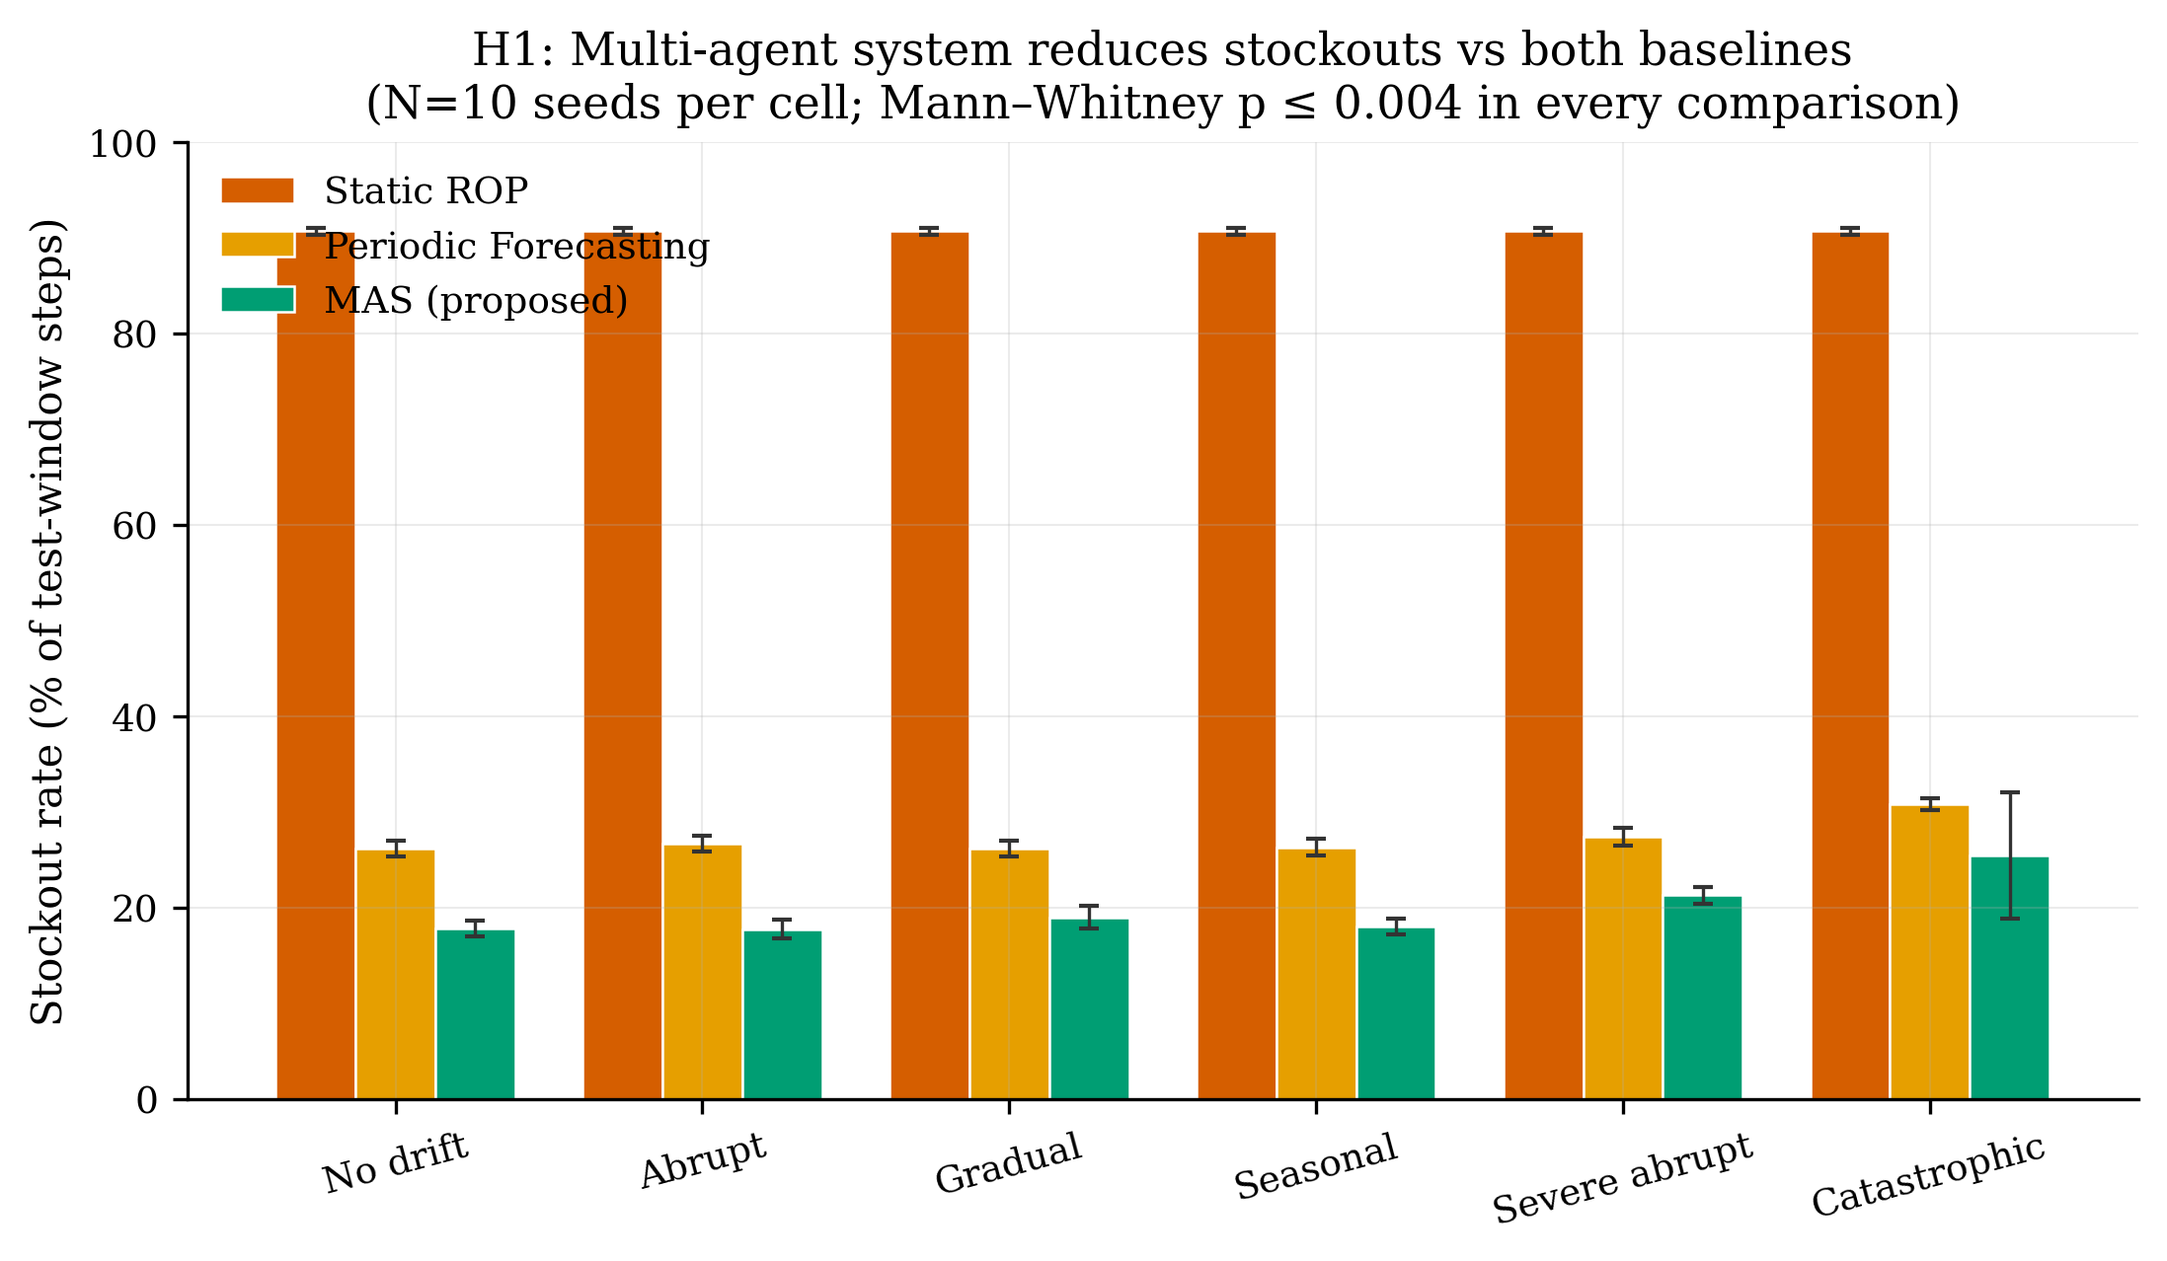
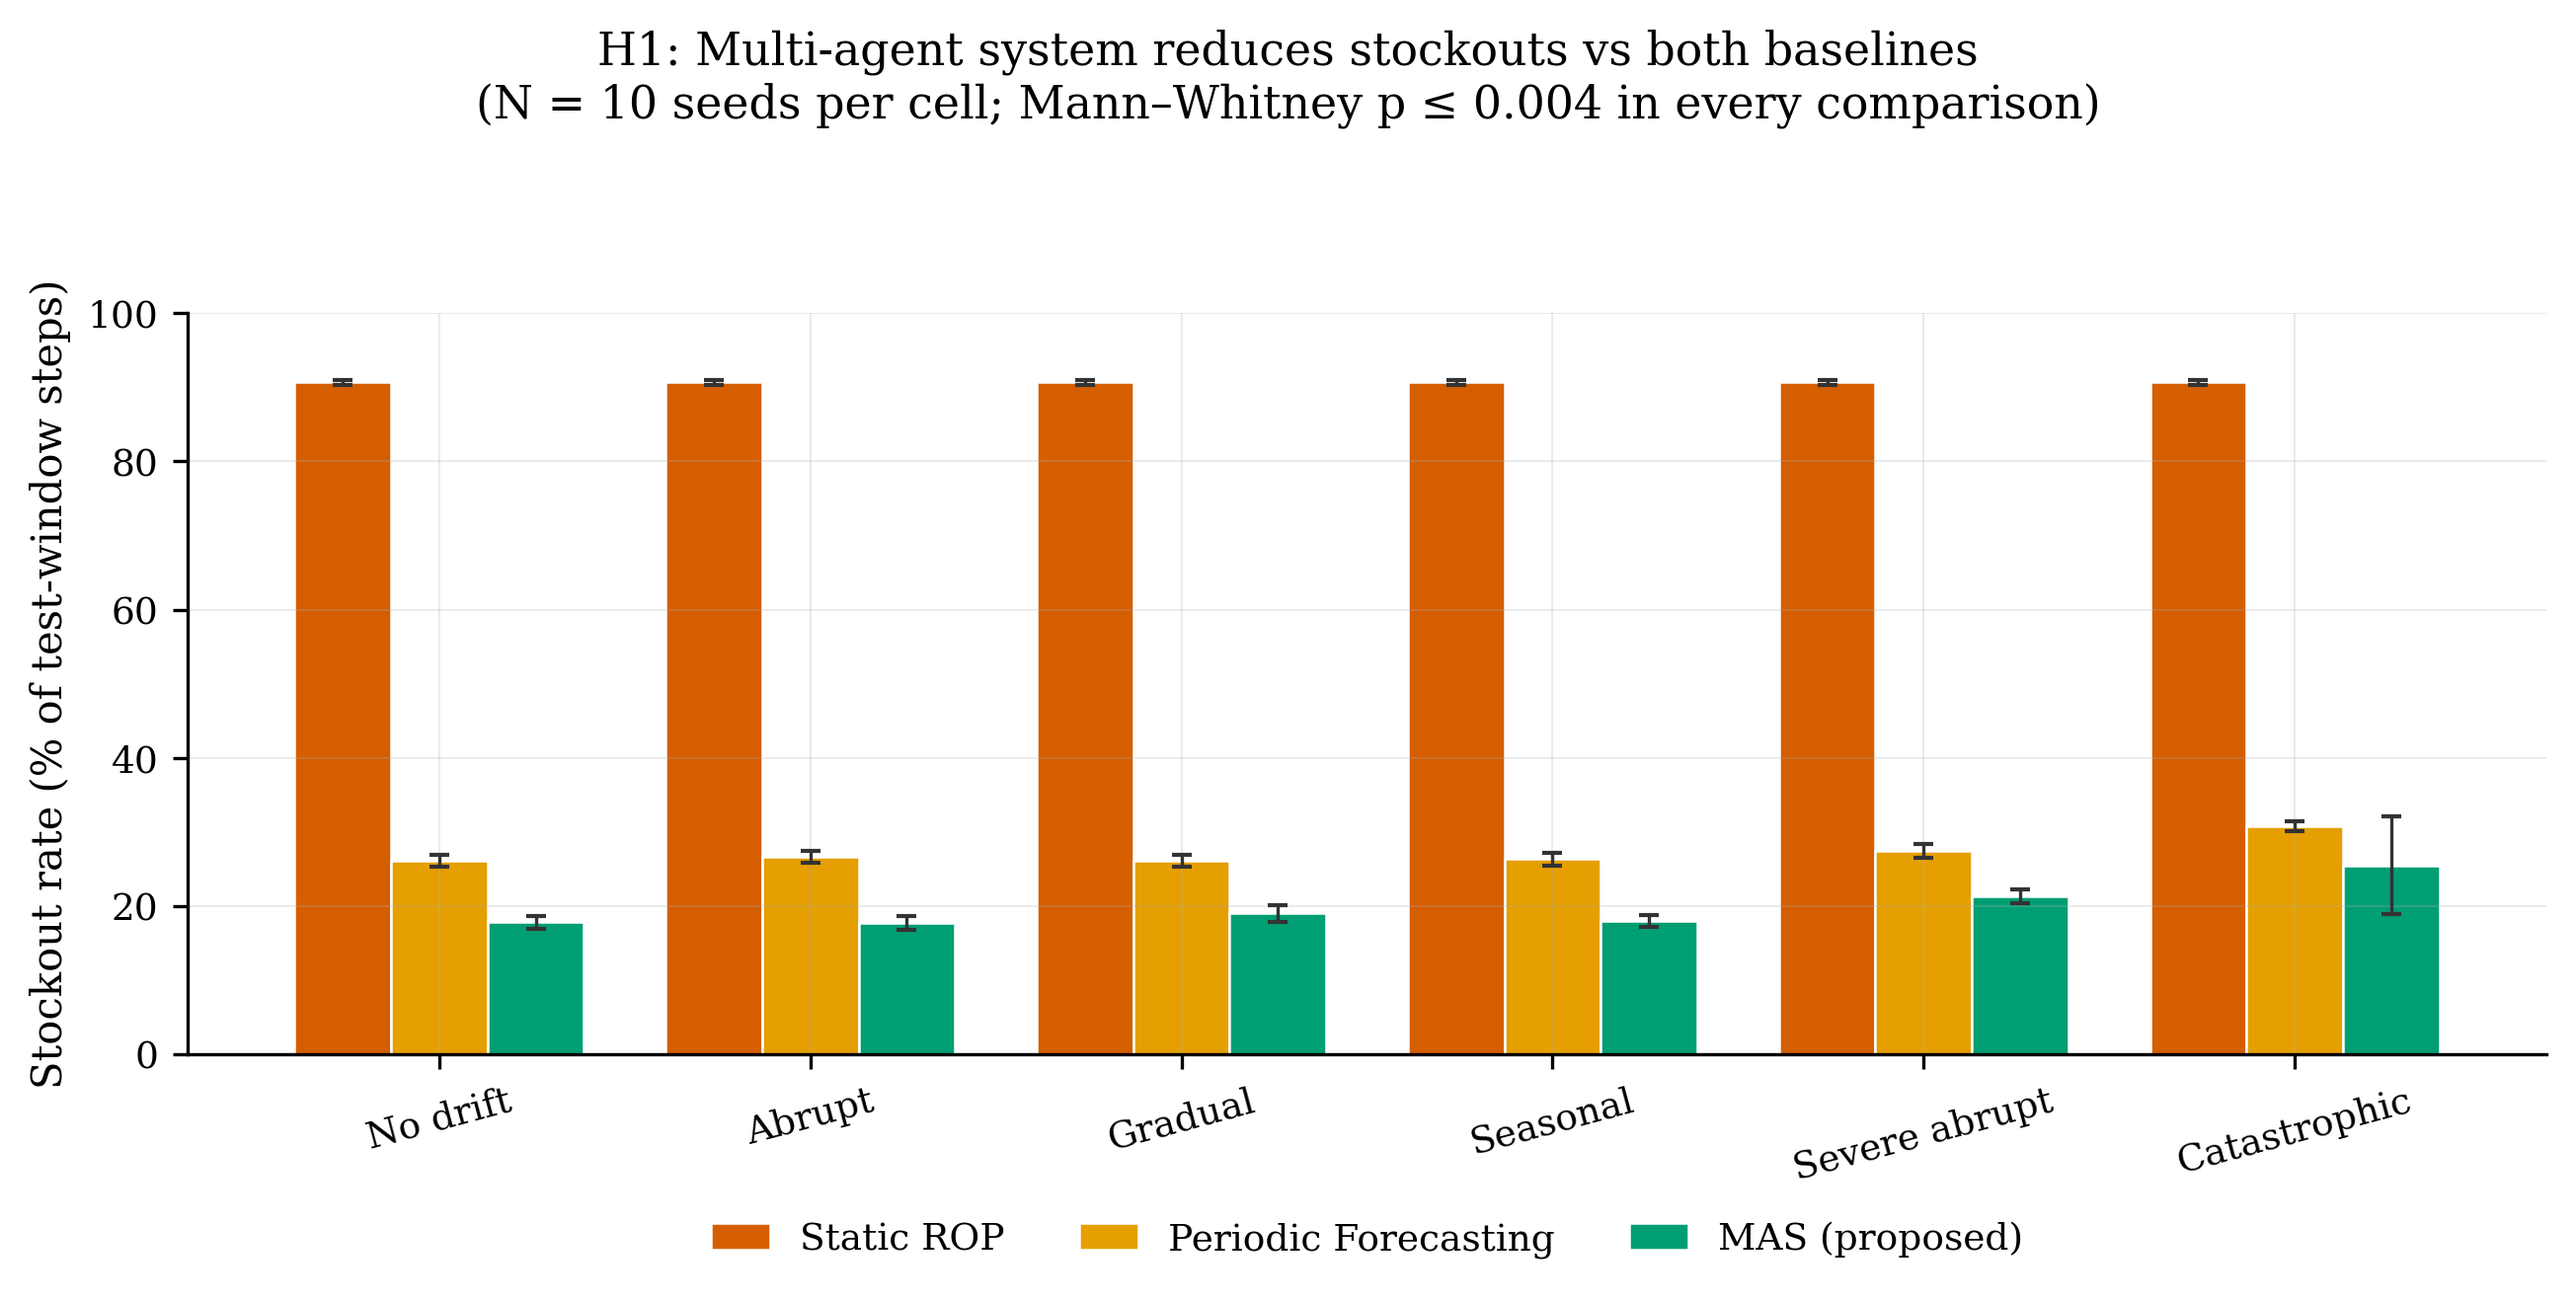
docs(figure): fix legend/bar overlap in H1 stockout figure
The "Static ROP / Periodic Forecasting / MAS (proposed)" legend was at
loc="upper left" inside the plot, but every Static ROP bar reaches ~91%
on the y-axis -- the legend ran across all six tall bars and was
unreadable for Static ROP.

Layout fix:
- Move the legend to a horizontal 3-column row BELOW the x-axis tick
  labels via bbox_to_anchor=(0.5, -0.18) + ncol=3. Out of the plot
  area entirely; no future scenario can make a bar tall enough to
  overlap it.
- Move the title from ax.set_title to fig.suptitle so it sits above
  the plot proper, not above the tallest bars where it competes for
  vertical space.
- Bump figure height from 4.2 to 4.8 inches to accommodate the new
  bottom-legend strip without compressing the bars.
- tight_layout(rect=...) reserves the bottom 4% for the legend and the
  top 7% for the title.

No data change.

diff --git a/scripts/make_figures.py b/scripts/make_figures.py
@@ -97,13 +97,20 @@ def _save(fig, name: str) -> None:
 # Figure 1: H1 stockout-rate comparison across scenarios
 # ============================================================================
 def fig_h1_stockout() -> None:
+    """H1 stockout-rate comparison bar chart.
+
+    Layout notes: Static ROP bars reach ~91% in every scenario, so an
+    in-plot legend at any upper corner collides with bar tops. We place
+    the legend BELOW the x-axis as a horizontal row and use suptitle for
+    the heading so the title doesn't compete with the bars either.
+    """
     print("Figure 1: H1 stockout-rate comparison")
     n_scen = len(SCENARIO_ORDER)
-    n_pol = len(POLICY_ORDER)
     width = 0.26
     x = np.arange(n_scen)
 
-    fig, ax = plt.subplots(figsize=(8.5, 4.2))
+    # Slightly taller figure to leave room for the below-plot legend.
+    fig, ax = plt.subplots(figsize=(8.8, 4.8))
     for i, pol in enumerate(POLICY_ORDER):
         means, stds = [], []
         for scen in SCENARIO_ORDER:
@@ -113,20 +120,37 @@ def fig_h1_stockout() -> None:
                 means.append(mt[0] * 100)
                 stds.append(mt[1] * 100)
             else:
-                means.append(0); stds.append(0)
+                means.append(0)
+                stds.append(0)
         offset = (i - 1) * width
-        ax.bar(x + offset, means, width, yerr=stds,
-               color=POLICY_COLORS[pol], label=POLICY_LABELS[pol],
-               edgecolor="white", linewidth=0.6,
-               error_kw=dict(ecolor="#333", lw=0.8, capsize=2.5))
+        ax.bar(
+            x + offset, means, width, yerr=stds,
+            color=POLICY_COLORS[pol], label=POLICY_LABELS[pol],
+            edgecolor="white", linewidth=0.6,
+            error_kw=dict(ecolor="#333", lw=0.8, capsize=2.5),
+        )
 
     ax.set_xticks(x)
     ax.set_xticklabels([SCENARIO_LABELS[s] for s in SCENARIO_ORDER], rotation=15)
     ax.set_ylabel("Stockout rate (% of test-window steps)")
-    ax.set_title("H1: Multi-agent system reduces stockouts vs both baselines\n"
-                 "(N=10 seeds per cell; Mann–Whitney p ≤ 0.004 in every comparison)")
-    ax.legend(loc="upper left", frameon=False)
     ax.set_ylim(0, 100)
+
+    # Title goes on the figure (not the axes) so it doesn't push down
+    # into the plot area where the tall Static ROP bars live.
+    fig.suptitle(
+        "H1: Multi-agent system reduces stockouts vs both baselines\n"
+        "(N = 10 seeds per cell; Mann–Whitney p ≤ 0.004 in every comparison)",
+        fontsize=11, y=0.99,
+    )
+
+    # Horizontal legend below the x-axis tick labels — keeps it well
+    # clear of the bars regardless of which scenarios are added later.
+    ax.legend(
+        loc="upper center", bbox_to_anchor=(0.5, -0.18),
+        ncol=3, frameon=False, handlelength=1.6, columnspacing=2.0,
+    )
+
+    plt.tight_layout(rect=[0, 0.04, 1, 0.93])
     _save(fig, "h1_stockout_rate")
 
 
